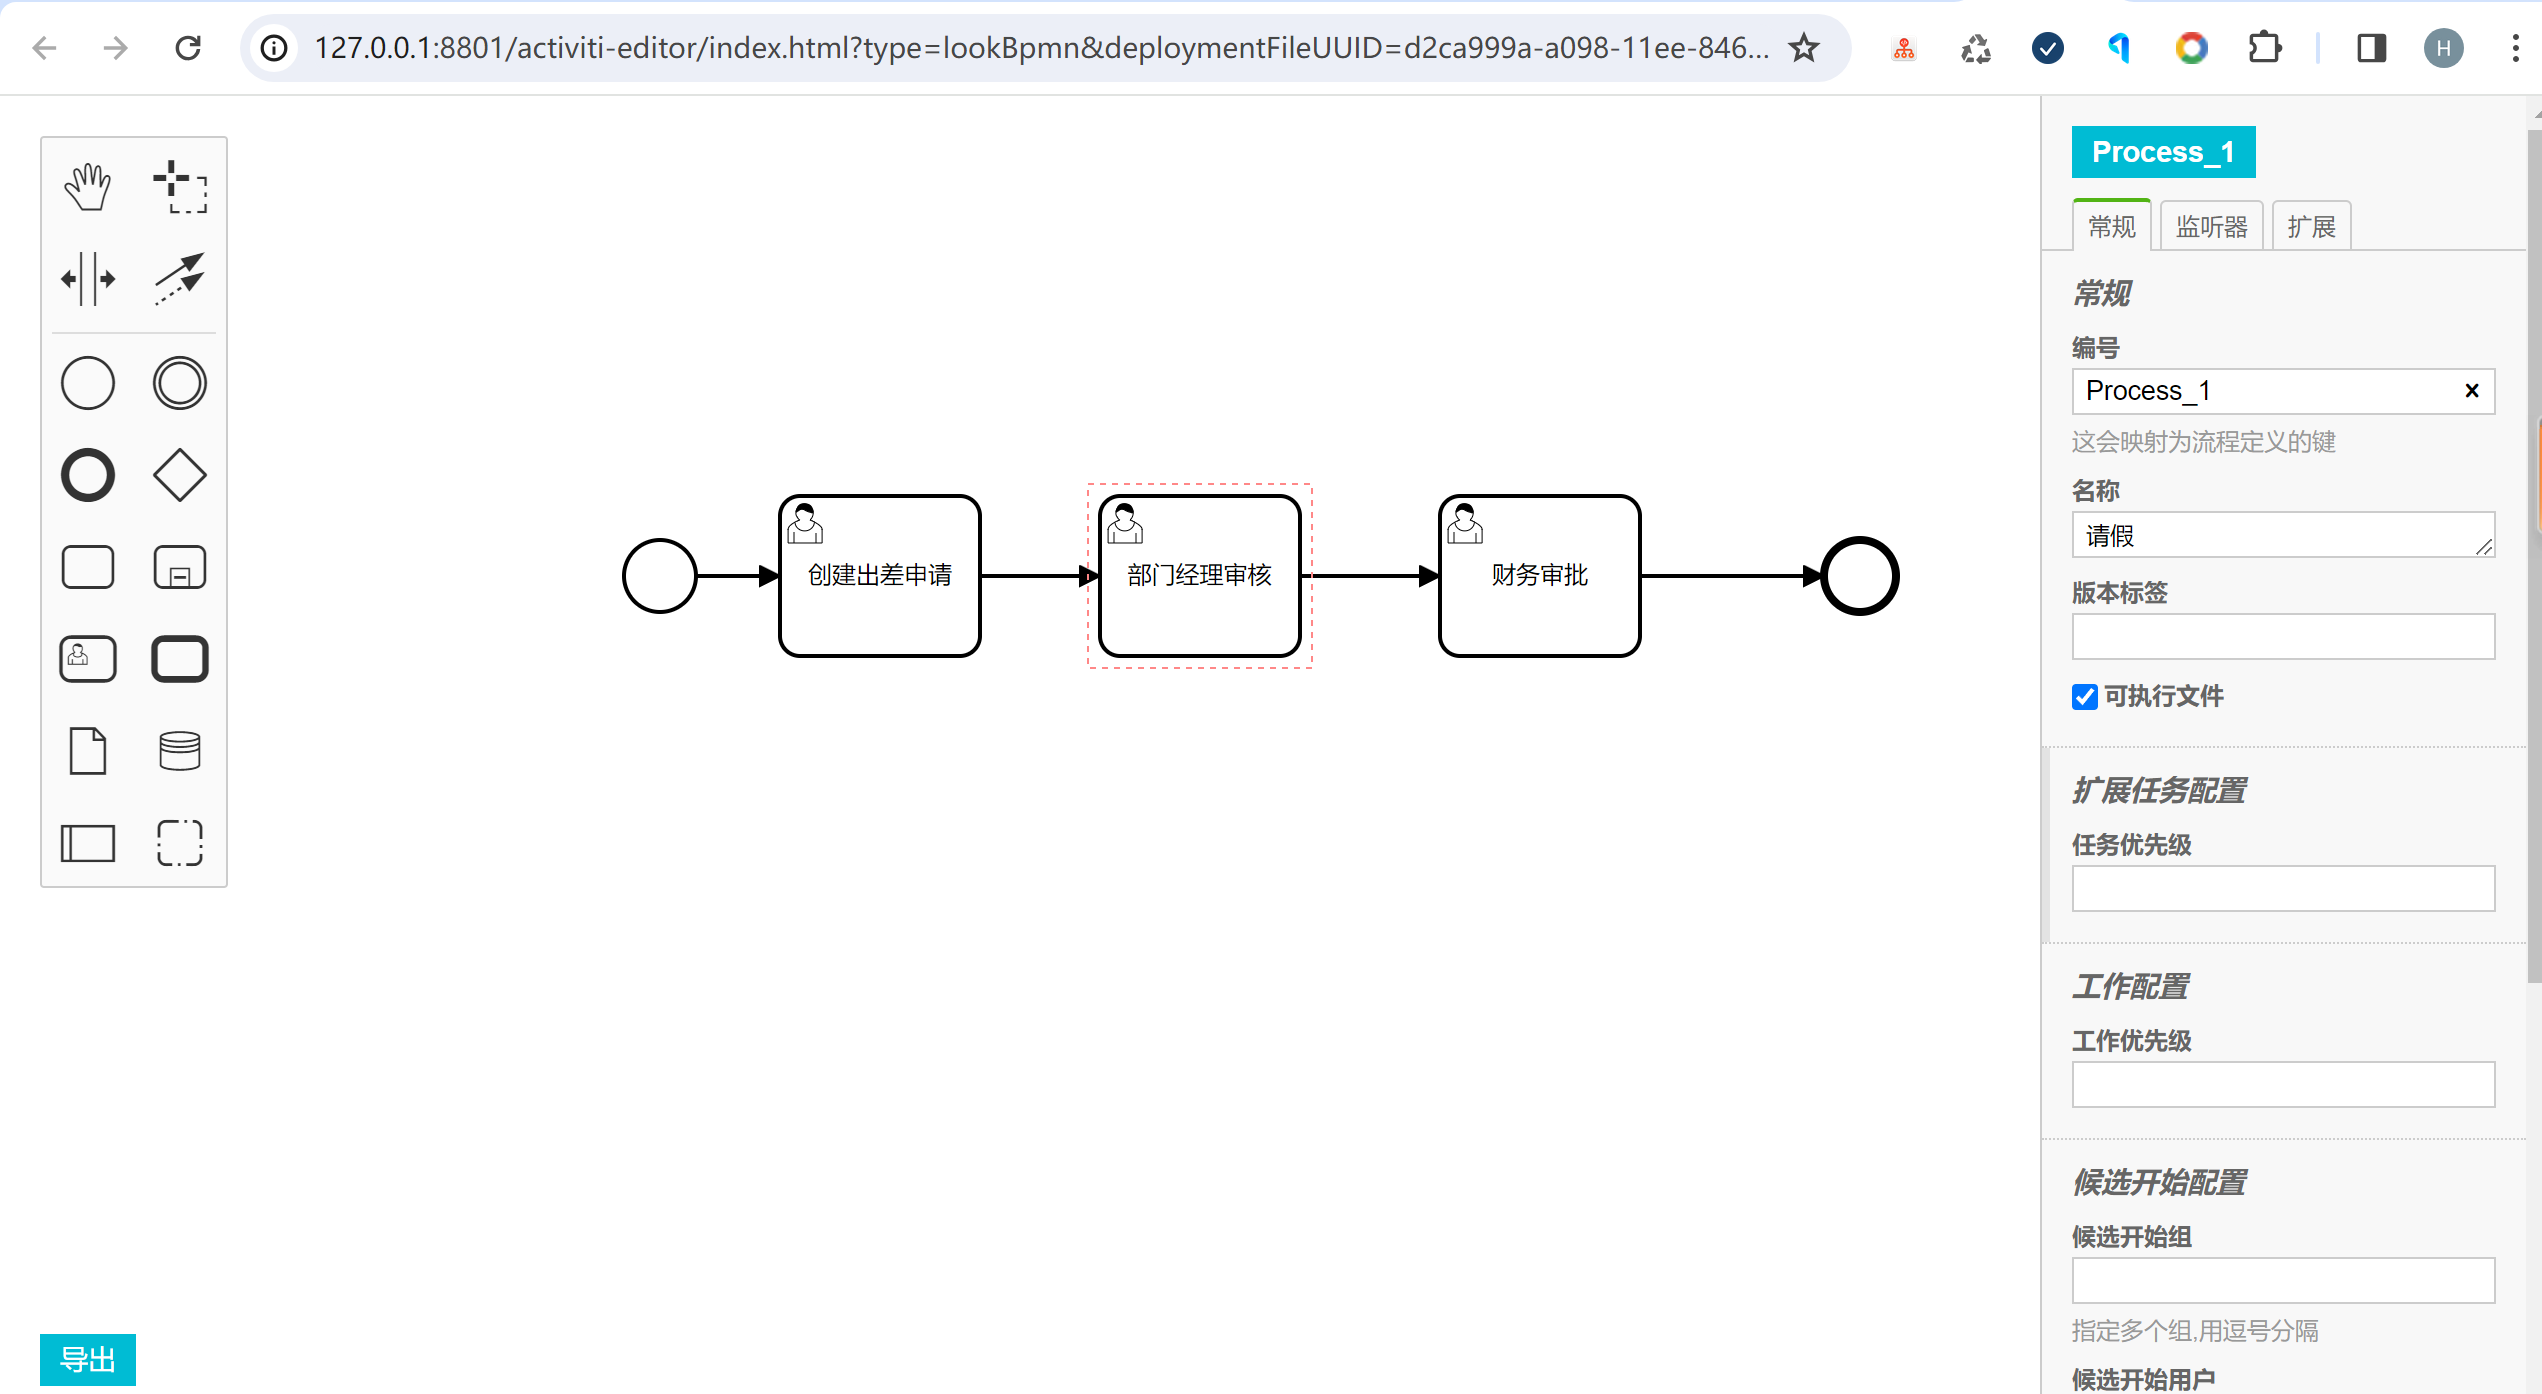
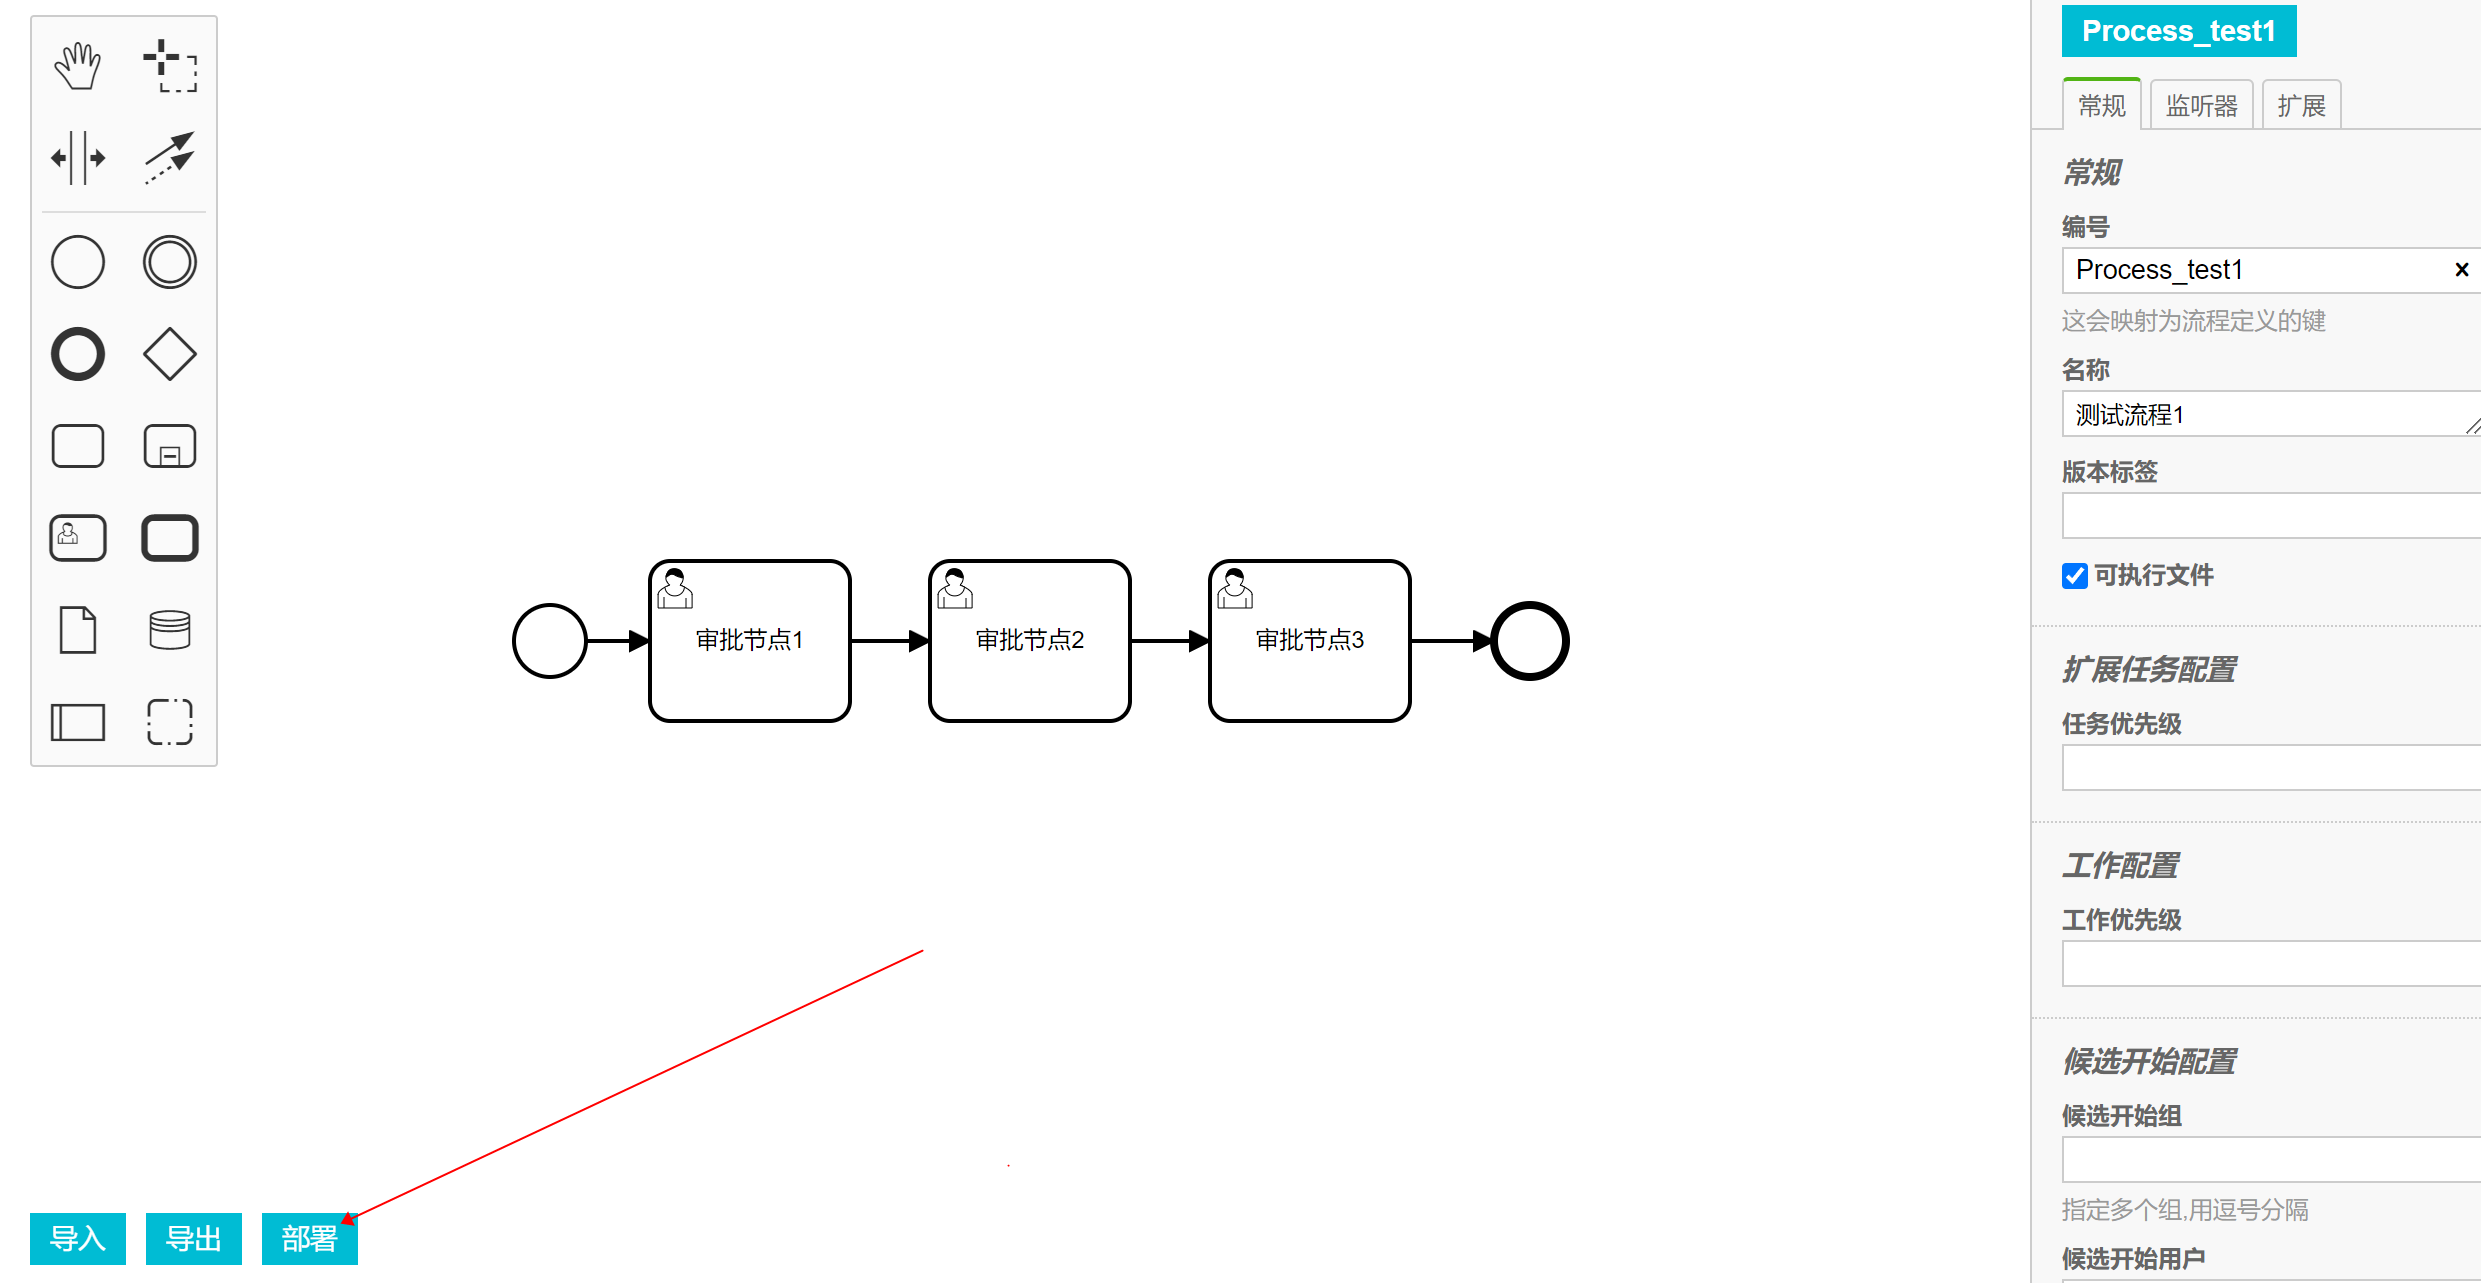
upd：activiti7

diff --git a/README.md b/README.md
@@ -1,16 +1,65 @@
 
 ## 系统说明
 
-- 基于 Spring Boot + Vue + activiti7 开发的 **工作流系统**
+- 基于 Spring Boot2.6 + + SpringSecurity + Activiti7 + Vue 搭建的 **工作流系统**
 - 轻量级 + 组件化 + 可扩展
 
-### 工作流管理
+## 项目演示
+
+### 演示账号/密码
+
+1. admin/111111，超级管理员，可以绘制流程定义，创建审批任务
+2. yonghu1/111111，部门1（bumeng1）的普通用户，审批任务
+3. yonghu2/111111，部门2（bumeng2）的普通用户，审批任务
+4. yonghu3/111111，部门3（bumeng3）的普通用户，审批任务
+
+### 在线绘制流程定义
+
+登录admin账号，进入菜单 - 工作流 > 流程定义 > 在线制作流程
+
+- 审批节点1，候选组 = bumeng1
+- 审批节点2，候选组 = bumeng2
+- 审批节点3，候选组 = bumeng3
+
+![](doc/activiti7/images/act-editor1.png)
+
+### 创建/查看审批流程
+
+登录admin账号，进入菜单 - 工作流 > 流程定义 > (列表中找到‘测试流程1’这个审批流程) > 新建实例，这样就开启了一个审批流程。
 
 ![](doc/activiti7/images/act-manage1.png)
 
-### 绘制工作流
+管理员admin也可以进去菜单 - 工作流 > 流程实例 > (查看到正在运行/暂停的审批流程)
 
-![](doc/activiti7/images/act-editor1.png)
+![](doc/activiti7/images/act-manage2.png)
+
+### 任务审批
+
+流程定义在不同的审批环节设置了不同部门的人员来审批，开始流程实例后，人员就可以登录自己账号进入菜单 - 工作流 > 代办任务 > 查看到自己当前的待完成审批项。
+
+#### 部门1用户1审批
+
+用户1登录自己的账号yonghu1完成审批
+
+![](doc/activiti7/images/act-manage3.png)
+
+#### 部门2用户2审批
+
+用户2登录自己的账号yonghu2完成审批
+
+![](doc/activiti7/images/act-manage4.png)
+
+#### 部门3用户3审批
+
+用户3登录自己的账号yonghu3完成审批
+
+![](doc/activiti7/images/act-manage5.png)
+
+### 再次查看审批流程
+
+登录admin账号，进入菜单 - 工作流 > 流程定义 > 列表中的‘测试流程1’这个审批流程不在了，说明已经完成结束了
+
+![](doc/activiti7/images/act-manage6.png)
 
 ## 快速开始
 
@@ -40,31 +89,30 @@ yeee-activiti7
 
 - jdk1.8
 - mysql >= 5.7
-- redis
 
 ```
-# 下载yeee-memo工程
+# 下载yeee-memo脚手架工程
 git clone https://github.com/yeeevip/yeee-memo.git
 
 # 打包[JavaWeb通用脚手架]
-cd memo-parent && mvn clean install
+cd yeee-memo/memo-parent && mvn clean install
 
 # 下载yeee-activiti7项目
-git clone https://github.com/yeeevip/yeee-blog.git
+git clone https://github.com/yeeevip/yeee-activiti7.git
 
 # 运行管理端ui
-cd app-h5/yeee-admin-ui && npm install && npm run dev
+cd yeee-activiti7/app-h5/yeee-admin-ui && npm install && npm run dev
 
-# 运行博客客户端ui
-cd app-h5/activiti-editor && npm install && npm run all
+# 编译流程制作ui
+cd yeee-activiti7/app-h5/activiti-editor && npm install && npm run all
 
 # 运行博客服务
-mvn clean install && java -jar -Dspring.profiles.active=test yeee-app-bootstrap/target/yeee-activiti7-bootstrap-1.0.0-SNAPSHOT.jar
+cd yeee-activiti7 && mvn clean install && java -jar yeee-activiti7-bootstrap/target/yeee-activiti7-bootstrap-1.0.0-SNAPSHOT.jar
 ```
 
 ### 其他说明
 
-1. 欢迎提交 [PR](https://www.yeee.vip)，注意对应提交对应 `blog-dev` 分支
+1. 欢迎提交 [PR](https://www.yeee.vip)
 
 2. 欢迎提交 [issue](https://gitee.com/yeeevip/yeee-blog/issues)，请写清楚遇到问题的原因、开发环境、复显步骤。
 
